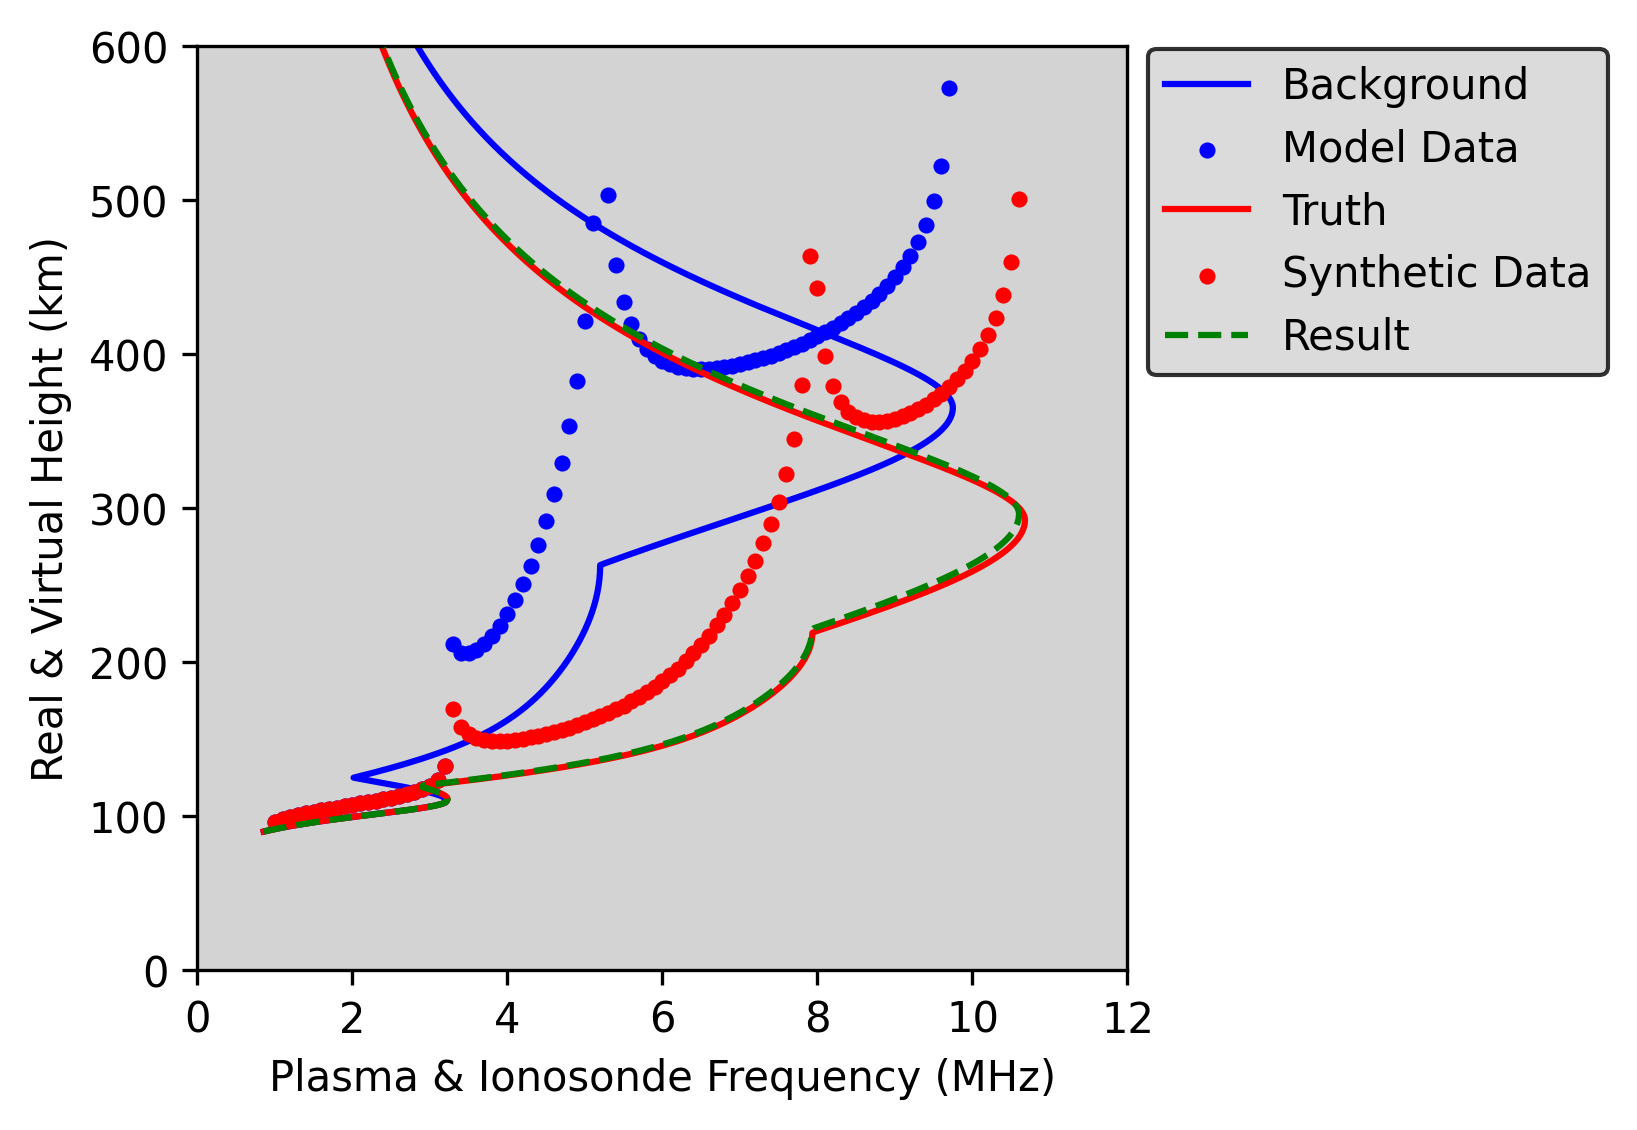
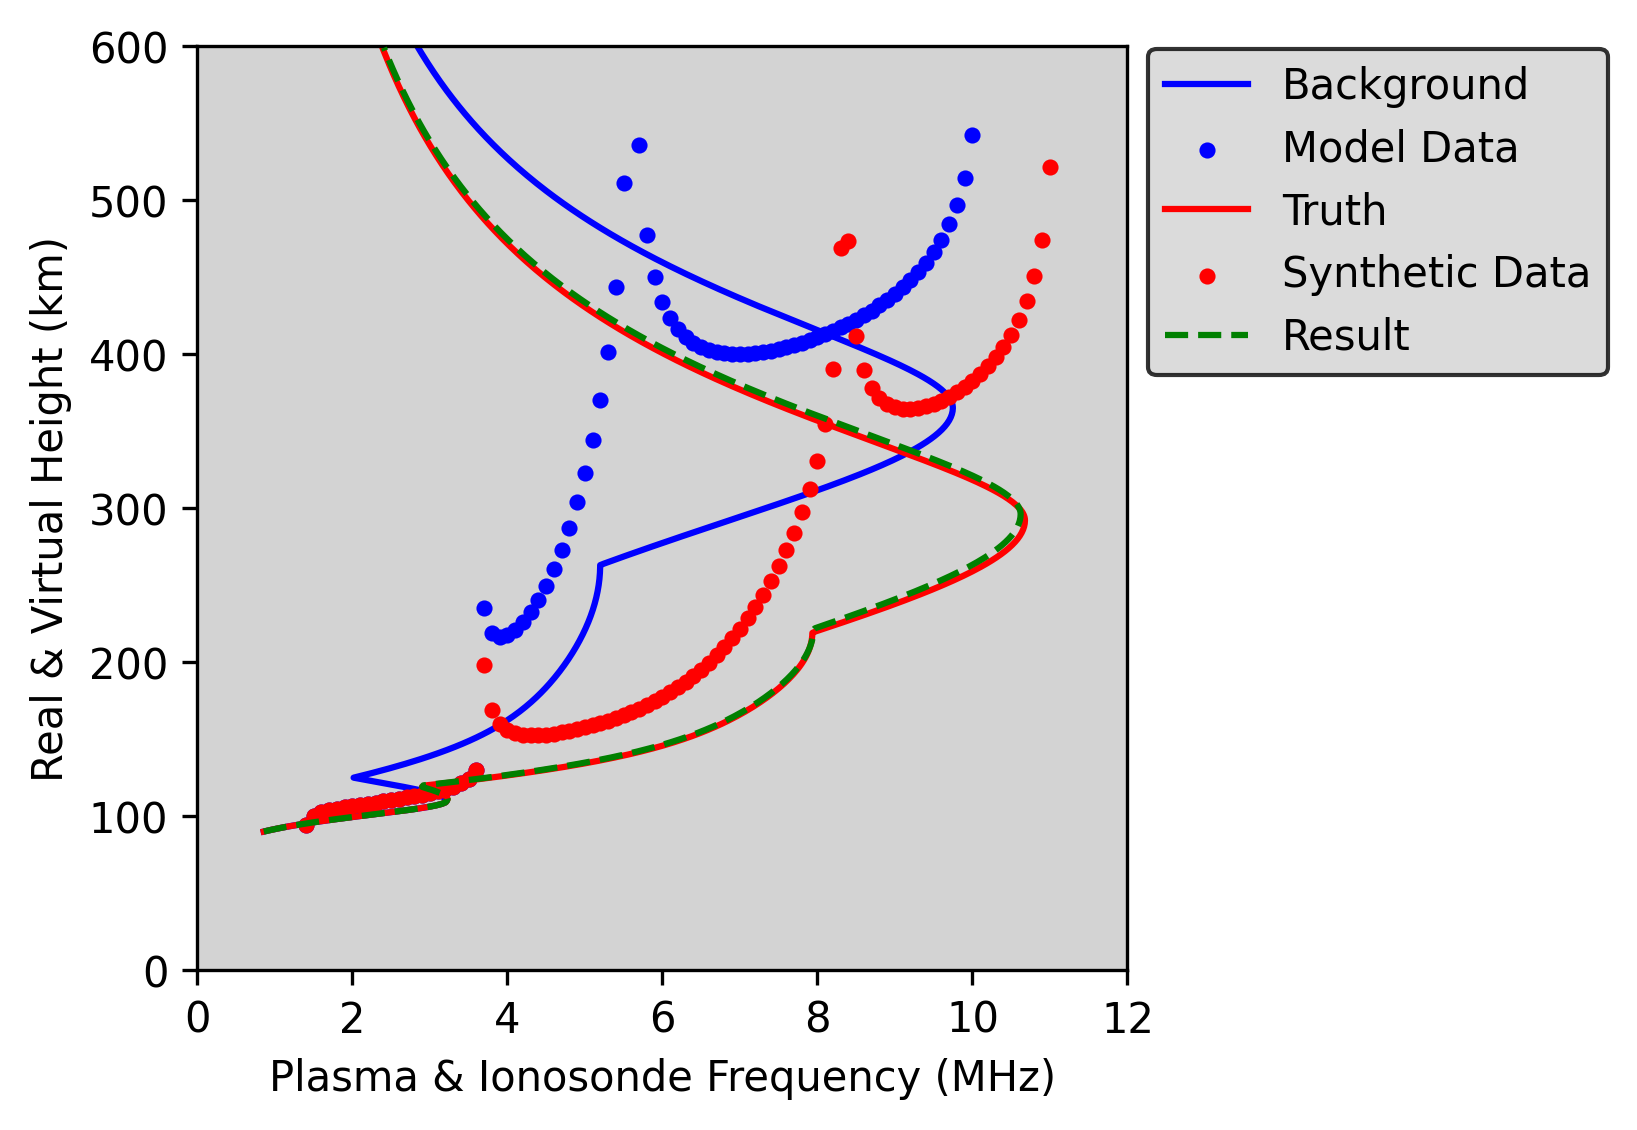
corrections for X-mode

diff --git a/PyRayHF/library.py b/PyRayHF/library.py
@@ -278,7 +278,11 @@ def find_vh(X, Y, bpsi, dh, alt_min, mode):
     _, mup = find_mu_mup(X, Y, bpsi, mode)
 
     # Find virtual height as vertical integral through μ'
-    vh = np.nansum(mup * dh, axis=1) + alt_min
+    ionospheric_height = np.nansum(mup * dh, axis=1)
+    # cover the cases where the ray escapes
+    ionospheric_height[ionospheric_height == 0] = np.nan
+
+    vh = ionospheric_height + alt_min
     return vh
 
 
@@ -476,30 +480,13 @@ def vertical_forward_operator(freq, den, bmag, bpsi, alt,
     if (den.shape != bmag.shape != bpsi.shape != alt.shape):
         logger.error("Error: freq, den, bmag, bpsi, alt should have same size")
 
-    # Limit the ionosonde frequency array up tp the ionospheric critical
-    # frequency foF2 (result is in Hz).
-    foF2 = np.max(den2freq(den))
-
-    # Index where ionosonde frequency is less then foF2 value
-    ind = np.where((freq * 1e6) < foF2)
-
-    # Select ionosonde frequency with this criteria
-    freq_lim = freq[ind] * 1e6
-
-    # Make empty array to collect virtual height of the same size as input
-    # frequency array
-    vh = np.zeros((freq.size)) + np.nan
+    #convert to Hz
+    freq_hz = freq * 1e6
 
     # Interpolate input arrays into a new stretched grid based on the
     # reflective height for each ionosonde frequency
-    # Frequency needs to be converted to Hz from MHz
-    regridded = regrid_to_nonuniform_grid(freq_lim,
-                                          den,
-                                          bmag,
-                                          bpsi,
-                                          alt,
-                                          mode=mode,
-                                          n_points=n_points)
+    regridded = regrid_to_nonuniform_grid(freq_hz, den, bmag, bpsi, alt,
+                                          mode=mode, n_points=n_points)
 
     # Find the ratio of the square of the plasma frequency f_N to the square of
     # the ionosonde frequency f.
@@ -509,8 +496,9 @@ def vertical_forward_operator(freq, den, bmag, bpsi, alt,
     aY = find_Y(regridded['freq'], regridded['bmag'])
 
     # Find virtual height
-    vh[ind] = find_vh(aX, aY, regridded['bpsi'], regridded['dist'],
+    vh = find_vh(aX, aY, regridded['bpsi'], regridded['dist'],
                       np.min(alt), mode)
+
     return vh
 
 
@@ -634,12 +622,18 @@ def residual_VH(params, F2_init, F1_init, E_init, f_in, vh_obs, alt,
     # Run forward model
     vh_model, _ = model_VH(F2, F1, E, f_in, alt, b_mag, b_psi,
                            mode=mode, n_points=n_points)
+
+    #when nmF2 is reduced, the modeled ray may pierce the ionosphere and result
+    #in vh_model = nan for frequencies where vh_obs is finite. to handle this,
+    # overwrite nans with the mean of the finite points or 10 km
+    vh_model[np.isnan(vh_model)] = np.maximum(np.nanmean(np.abs(vh_model)), 10.)
+
     # Find residuals
     residual = (vh_obs - vh_model).ravel()
     return residual
 
 
-def minimize_parameters(F2, F1, E, f_in, vh_obs, alt, b_mag, b_psi,
+def minimize_parameters(F2, F1, E, f_in0, vh_obs0, alt, b_mag, b_psi,
                         method='brute', percent_sigma=20., step=1.,
                         mode='O', n_points=200):
     """Minimize F2 layer parameters (hmF2 and B_bot) to fit observed VH.
@@ -652,9 +646,9 @@ def minimize_parameters(F2, F1, E, f_in, vh_obs, alt, b_mag, b_psi,
         Initial F1 layer parameters.
     E : dict
         Initial E layer parameters.
-    f_in : ndarray
+    f_in0 : ndarray
         Input frequencies [MHz].
-    vh_obs : ndarray
+    vh_obs0 : ndarray
         Observed virtual heights [km].
     alt : ndarray
         Altitude array [km].
@@ -689,43 +683,54 @@ def minimize_parameters(F2, F1, E, f_in, vh_obs, alt, b_mag, b_psi,
         Reconstructed electron density profile after fitting [m^-3].
 
     """
-    # Use the last valid (finite) value in vh_obs to estimate initial NmF2
-    ind_valid = np.where(np.isfinite(vh_obs))[0][-1]
-    # Convert plasma frequency to plasma density and increase it slightly
-    # (by 0.01%) to make sure that we can obtain the virtual height for the
-    # last data point
-    NmF2_new = freq2den(f_in[ind_valid] * 1e6) * 1.0001
+    # Find good indices and sort the input arrays
+    gi = np.nonzero(np.isfinite(f_in0 + vh_obs0))[0]
+    vh_obs, f_in = vh_obs0[gi], f_in0[gi]
+    si = np.argsort(f_in)
+    vh_obs, f_in = vh_obs[si], f_in[si]
 
-    # The input arrays in F2 have shape [1, 1, 1], let's use mean to make it
-    # just one number
-    mean_hmF2 = np.nanmean(F2['hm'])
-    mean_B_bot = np.nanmean(F2['B_bot'])
+    # Removes axes of length one from the initial values of all parameters
+    old_nmf2 = F2['Nm'].squeeze()
+    old_hmf2 = F2['hm'].squeeze()
+    old_B_bot = F2['B_bot'].squeeze()
 
-    # Brute minimization gives the best result
-    # The brute step controls the walk
-    # If you need to make the code faster, increase the brute_step and
-    # decrease the percent sigma
-    sigma_hmF2 = mean_hmF2 * (percent_sigma / 100.0)
-    sigma_B_bot = mean_B_bot * (percent_sigma / 100.0)
+    # And their sigmas
+    sigma_hmf2 = old_hmf2 * (percent_sigma / 100.0)
+    sigma_B_bot = old_B_bot * (percent_sigma / 100.0)
 
-    # Populate lmfit parameters for the minimization
+    # Max observed ionosonde frequency in Hz
+    f_max_Hz = f_in[-1] * 1e6
+
+    # The direct extraction of NmF2 depends on the mode
+    if mode == 'O':
+        # Convert plasma frequency to plasma density and increase it slightly
+        # (by 0.01%) to make sure that we can obtain the virtual height for the
+        # last data point
+        Nmf2_new = freq2den(f_max_Hz) * 1.0001
+
+    if mode == 'X':
+        # Using the initial value for hmF2 to determine the strength of the B
+        _, gp, _, _ = constants()
+        ind_hmF2 = np.argmin(np.abs(alt - old_hmf2))
+        f_c = b_mag[ind_hmF2] * gp
+
+        # Eqn derived from X + Y = 1 condition
+        foF2 = np.sqrt(f_max_Hz**2 - f_max_Hz * f_c)
+        Nmf2_new = freq2den(foF2) * 1.0001
+
+    # Initiate the parameters
     params = lmfit.Parameters()
-    params.add('NmF2', value=NmF2_new, vary=False)
-    params.add('hmF2', value=mean_hmF2,
-               min=mean_hmF2 - sigma_hmF2,
-               max=mean_hmF2 + sigma_hmF2,
-               brute_step=step)
-
-    params.add('B_bot', value=mean_B_bot,
-               min=mean_B_bot - sigma_B_bot,
-               max=mean_B_bot + sigma_B_bot,
-               brute_step=step)
+    params.add('NmF2', value=Nmf2_new, vary=False)
+    params.add('hmF2', value=old_hmf2, min=old_hmf2 - sigma_hmf2,
+               max=old_hmf2 + sigma_hmf2, brute_step=step)
+    params.add('B_bot', value=old_B_bot, min=old_B_bot - sigma_B_bot,
+               max=old_B_bot + sigma_B_bot, brute_step=step)
 
     # Perform brute-force minimization
-    brute_result = lmfit.minimize(
-        residual_VH, params, args=(F2, F1, E, f_in, vh_obs, alt,
-                                   b_mag, b_psi, mode, n_points),
-        method=method)
+    brute_result = lmfit.minimize(residual_VH, params,
+                                  args=(F2, F1, E, f_in, vh_obs, alt,
+                                        b_mag, b_psi, mode, n_points),
+                                  method=method)
 
     # Extract optimal parameter values
     NmF2_opt = brute_result.params['NmF2'].value
@@ -742,7 +747,7 @@ def minimize_parameters(F2, F1, E, f_in, vh_obs, alt, b_mag, b_psi,
 
     # Run forward model with optimized parameters
     vh_result, EDP_result = model_VH(F2_fit, F1_fit, E_fit,
-                                     f_in, alt, b_mag, b_psi,
+                                     f_in0, alt, b_mag, b_psi,
                                      mode=mode, n_points=n_points)
     return vh_result, EDP_result
 
